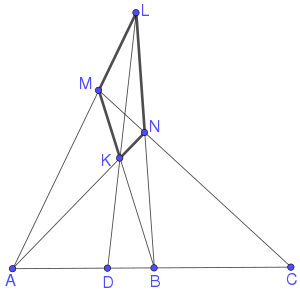
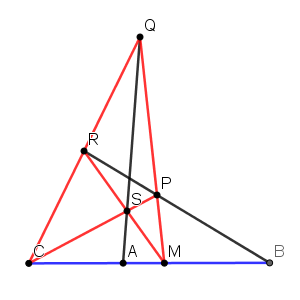
generalized butterfly theorem => harmonic conjugates

diff --git a/projective/harmonic-c.py b/projective/harmonic-c.py
@@ -10,8 +10,8 @@ def main():
     A, B = intersect(LMA, NKA), intersect(LNB, MKB)
     ADBC = line(A, B)
     D, C = intersect(ADBC, LKD), intersect(ADBC, MNC)
-    print(R(A[0], B[0], C[0], D[0]))
-    print(R(A[1], B[1], C[1], D[1]))
+    print(cross_ratio(A[0], B[0], C[0], D[0]))
+    print(cross_ratio(A[1], B[1], C[1], D[1]))
 
 if __name__ == '__main__':
     main()

diff --git a/projective/pole-polar-c2.py b/projective/pole-polar-c2.py
@@ -10,7 +10,7 @@ def main():
     circle = Eq(x**2 + y**2, 1)
     roots = solve([AB, circle], (x, y))
     C, D = roots[0], roots[1]
-    print(solve(Eq(R(A[0], B[0], C[0], D[0]), -1), a1))
+    print(solve(Eq(cross_ratio(A[0], B[0], C[0], D[0]), -1), a1))
 
 if __name__ == '__main__':
     main()

diff --git a/projective/cartesian.py b/projective/cartesian.py
@@ -39,5 +39,5 @@ def line_coef(P1, P2):
 def concurrency(P1, P2, P3, P4, P5, P6):
     return Matrix([line_coef(P1, P2), line_coef(P3, P4), line_coef(P5, P6)]).det()
 
-def R(a, b, c, d):
+def cross_ratio(a, b, c, d):
     return simplify((a - c)*(b - d)/(a - d)/(b - c))

diff --git a/projective/pole-polar-c1.py b/projective/pole-polar-c1.py
@@ -10,7 +10,7 @@ def main():
     circle = Eq(x**2 + y**2, 1)
     roots = solve([AB, circle], (x, y))
     C, D = roots[0], roots[1]
-    print(R(A[0], B[0], C[0], D[0]))
+    print(cross_ratio(A[0], B[0], C[0], D[0]))
 
 if __name__ == '__main__':
     main()

diff --git a/butterfly.md b/butterfly.md
@@ -4,7 +4,7 @@ The **butterfly theorem** can be stated as: Let *M* be the midpoint of a chord *
 
 This theorem can be generalized in two forms:
 
-1. Generalize the circle to any conic curve;
+1. Generalize the circle to any conic section;
 2. Generalize the condition *MA* = *MB* and *MC* = *MD* to <img src="https://latex.codecogs.com/gif.latex?\frac{1}{MA}-\frac{1}{MB}=\frac{1}{MC}-\frac{1}{MD}"> or <img src="https://latex.codecogs.com/gif.latex?\frac{1}{\overrightarrow{MA}}+\frac{1}{\overrightarrow{MB}}=\frac{1}{\overrightarrow{MC}}+\frac{1}{\overrightarrow{MD}}">.
 
 ### Proof by Analytic Geometry
@@ -15,11 +15,11 @@ We put *M* onto the origin of Cartesian coordinates and *B* onto positive x-axis
 
 #### Step 1
 
-The conic curve *APRBQS* can be represented as:
+The conic *APRBQS* can be represented as:
 
 <img src="https://latex.codecogs.com/gif.latex?ax^2+bxy+cy^2+dx+ey+f=0">
 
-(Let's assume *M* not on the curve so that *f* ≠ 0.)
+(Let's assume *M* not on the conic so that *f* ≠ 0.)
 
 The coordinates of *A* and *B* are:
 
@@ -65,7 +65,7 @@ So we have:
 
 <img src="https://latex.codecogs.com/gif.latex?\begin{cases}x_\text{P}x_\text{Q}=f/Q\\x_\text{P}+x_\text{Q}=-(d+eq)/Q\end{cases}\;\text{(Eq.%203a)}">
 
-where <img src="https://latex.codecogs.com/gif.latex?Q=a+bq+cq^2">. (Here we don't consider *Q* = 0 because the line intersects the curve at two different points.)
+where <img src="https://latex.codecogs.com/gif.latex?Q=a+bq+cq^2">. (Here we don't consider *Q* = 0 because the line intersects the conic at two different points.)
 
 Analogously, we have:
 
@@ -109,21 +109,21 @@ Finally, we get:
 
 <img src="https://latex.codecogs.com/gif.latex?\frac{1}{\overrightarrow{MC}}+\frac{1}{\overrightarrow{MD}}=\frac{(x_\text{P}+x_\text{Q})(y_\text{R}y_\text{S})-q(x_\text{P}x_\text{Q})(y_\text{R}+y_\text{S})}{(x_\text{P}x_\text{Q})(y_\text{R}y_\text{S})}=-\frac{d}f=\frac{1}{\overrightarrow{MA}}+\frac{1}{\overrightarrow{MB}}">
 
-### Degenerate Conic Curve
+### Degenerate Conic
 
-The generalized butterfly theorem still holds if the conic curve is degenerated to two lines.
+The generalized butterfly theorem still holds if the conic is degenerated to two lines.
 
-In the below special case, *CD* is a chord of two lines *CNM* and *DKL*, and *B* is a point on *CD*, through which two other lines *BKM* and *BNL* are drawn; *LM* and *NK* intersect chord *CD* at the same point *A* (lines *LM*, *NK* and *CD* are concurrent at point *A*).
+In the below special case, *AB* is a chord of two lines *ASQ* and *BPR*, and *M* is a point on *AB*, through which two other lines *MPQ* and *MSR* are drawn; *PS* and *QR* intersect chord *AB* at the same point *C* (lines *AB*, *PS* and *QR* are concurrent at point *C*).
 
 <img src="diagrams/harmonic.png">
 
 According to the generalized butterfly theorem:
 
-<img src="https://latex.codecogs.com/gif.latex?\frac{1}{\overrightarrow{BC}}+\frac{1}{\overrightarrow{BD}}=\frac{2}{\overrightarrow{BA}}">
+<img src="https://latex.codecogs.com/gif.latex?\frac{1}{\overrightarrow{MA}}+\frac{1}{\overrightarrow{MB}}=\frac{2}{\overrightarrow{MC}}">
 
-In another word, (*A*, *B*) and (*C*, *D*) are [harmonic conjugates](https://en.wikipedia.org/wiki/Projective_harmonic_conjugate): <sup>[4]</sup>
+In other words, (*M*, *C*) and (*A*, *B*) are [harmonic conjugates](https://en.wikipedia.org/wiki/Projective_harmonic_conjugate): <sup>[4]</sup>
 
-<img src="https://latex.codecogs.com/gif.latex?(A,B;C,D)=\frac{\overrightarrow{AC}\overrightarrow{BD}}{\overrightarrow{AD}\overrightarrow{BC}}=-1">
+<img src="https://latex.codecogs.com/gif.latex?(M,C;A,B)=\frac{\overrightarrow{MA}\overrightarrow{CB}}{\overrightarrow{MB}\overrightarrow{CA}}=-1">
 
 ### Notes
 
